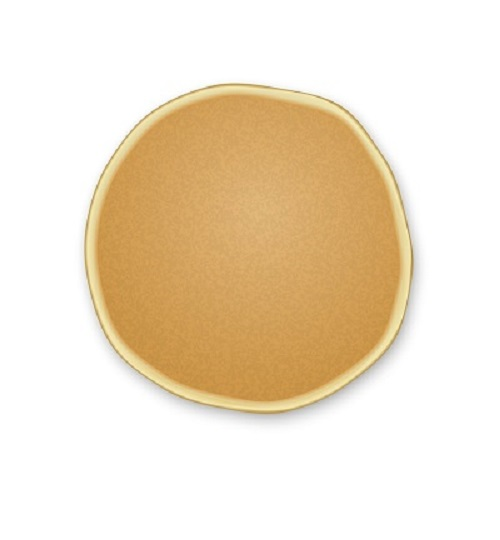
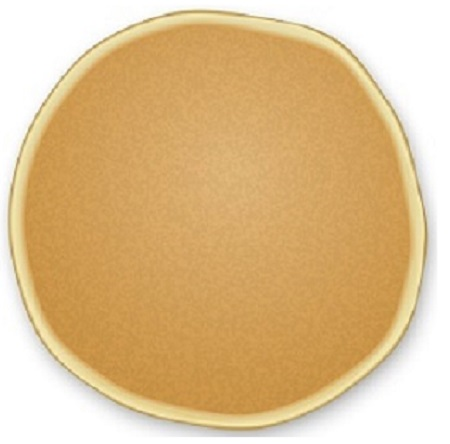
Added img

diff --git a/src/components/Layout/Drawer/Drawer.js b/src/components/Layout/Drawer/Drawer.js
@@ -1,7 +1,7 @@
 import React from "react";
 import classes from "./Drawer.module.css";
 import Logo from "../../UI/Logo/Logo";
-import Navigation from "../Todbar/Navigation/Navigation";
+import Navigation from "../Toolbar/Navigation/Navigation";
 import Backdrop from "../../UI/Backdrop/Backdrop";
 
 export default ({ toggleDrawer, open }) => {

diff --git a/src/components/PancakeBuilder/FruitsKit/Fruitskit.module.css b/src/components/PancakeBuilder/FruitsKit/Fruitskit.module.css
@@ -3,12 +3,11 @@
     padding: 1rem;
     position: relative;
     
-    background:#C78040;
-    border: 5px solid #D8B98E;
+    background-image: url(../../../assets/pancake.jpg);
    
     margin:  auto;
     width: 450px;
-    height: 450px;
+    height: 444px;
     margin: 8px;
     align-items: center;
     display: flex;

diff --git a/src/Conteiners/Layout/Layout.js b/src/Conteiners/Layout/Layout.js
@@ -1,5 +1,5 @@
 import React, { useState } from "react";
-import Toolbar from "../../components/Layout/Todbar/Toolbar";
+import Toolbar from "../../components/Layout/Toolbar/Toolbar";
 import classes from "./Layout.module.css";
 import Drawer from "../../components/Layout/Drawer/Drawer";
 

diff --git a/src/components/PancakeBuilder/FruitsKit/Pancake/Fruit.js b/src/components/PancakeBuilder/FruitsKit/Pancake/Fruit.js
@@ -6,7 +6,7 @@ export default memo( function ({ type }) {
 
   let style = null;
   const getPosition = (ir) => {
-    const pd = 450;
+    const pd = 440;
     const pr = pd / 2;
 
     const ix = Math.round(Math.random() * pd);
